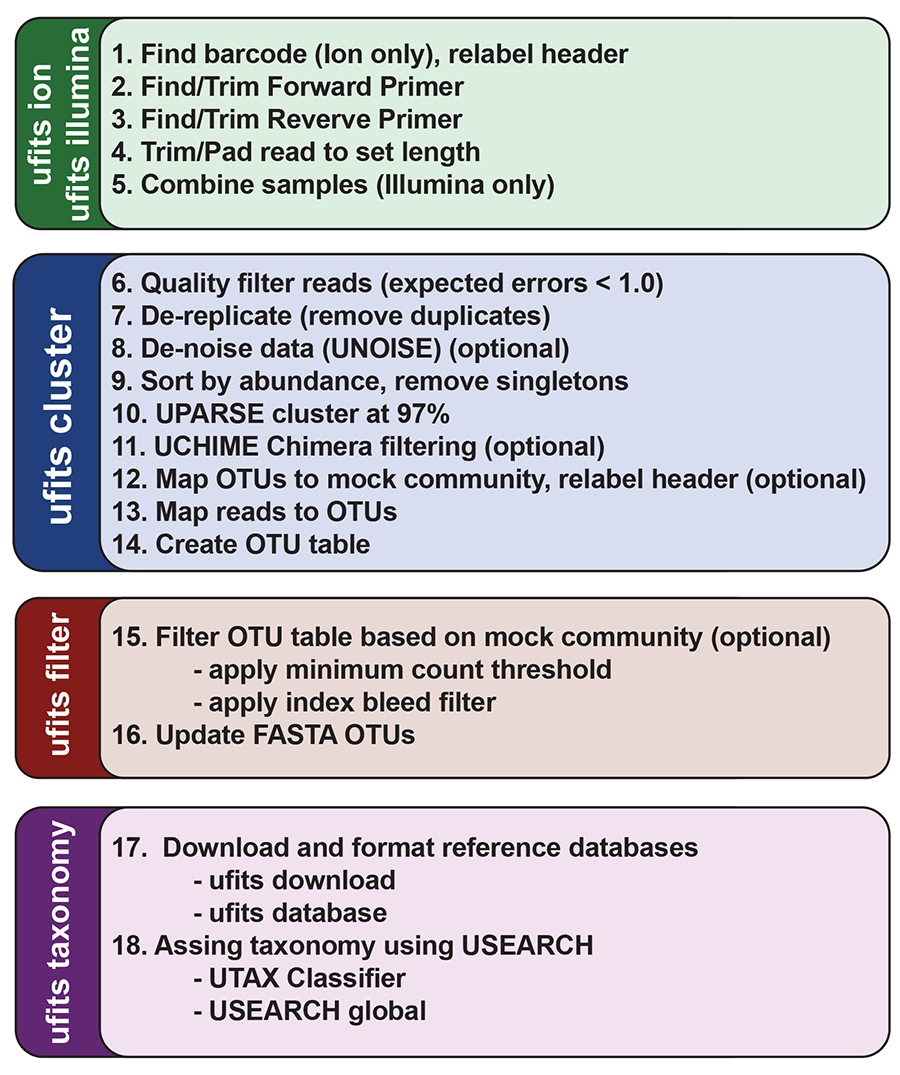
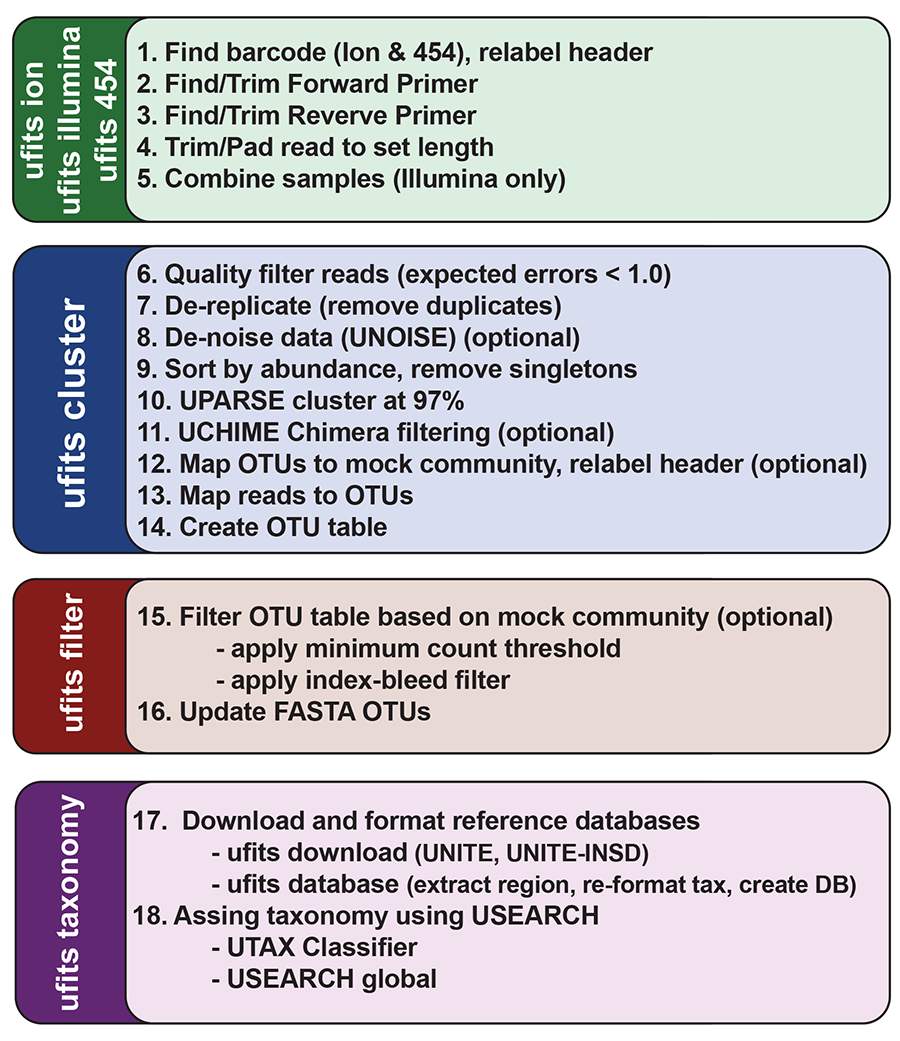
update readme with 454 functionality

diff --git a/README.md b/README.md
@@ -107,7 +107,7 @@ You can processes a folder of Illumina data like this:
 ufits illumina -i folder_name -o miseqData
 ```
 
-This will find all files ending with '.fastq.gz' in the input folder, gunzip the files, and then sequentially process the paired read files.  First it will run USEARCH8 `-fastq_mergepairs`, however, since some ITS sequences are too long to overlap you can rescue longer sequences by recovering the the non-merged forward reads.  Alternatively, you can only utilize the forward reads (R1), by passing the `--reads forward` argument.  Next the forward and reverse primers are removed and the reads are trimmed/padded to a set length of clustering. Finally, the resulting FASTQ files for each of the processed samples are concatenated together into a file called `miseqData.demux.fq` that will be used for the next clustering step.  The script will also output a text file called `miseqData-filenames.txt` that contains a tab-delimited output of the sample name as well as [i5] and [i7] index sequences that were used.
+This will find all files ending with '.fastq.gz' in the input folder, gunzip the files, and then sequentially process the paired read files.  First it will run USEARCH8 `-fastq_mergepairs`, however, since some ITS sequences are too long to overlap you can rescue longer sequences by recovering the the non-merged forward reads by passing the `--rescue_forward` argument.  Alternatively, you can only utilize the forward reads (R1), by passing the `--reads forward` argument.  Next the forward and reverse primers are removed and the reads are trimmed/padded to a set length of clustering. Finally, the resulting FASTQ files for each of the processed samples are concatenated together into a file called `"output".demux.fq` that will be used for the next clustering step.  The script will also output a text file called `"output"-filenames.txt` that contains a tab-delimited output of the sample name as well as [i5] and [i7] index sequences that were used.  The script will produce a folder containing the individual de-multiplexed files named from the `-o, --out` argment.
 
 ####OTU Clustering:####
 
